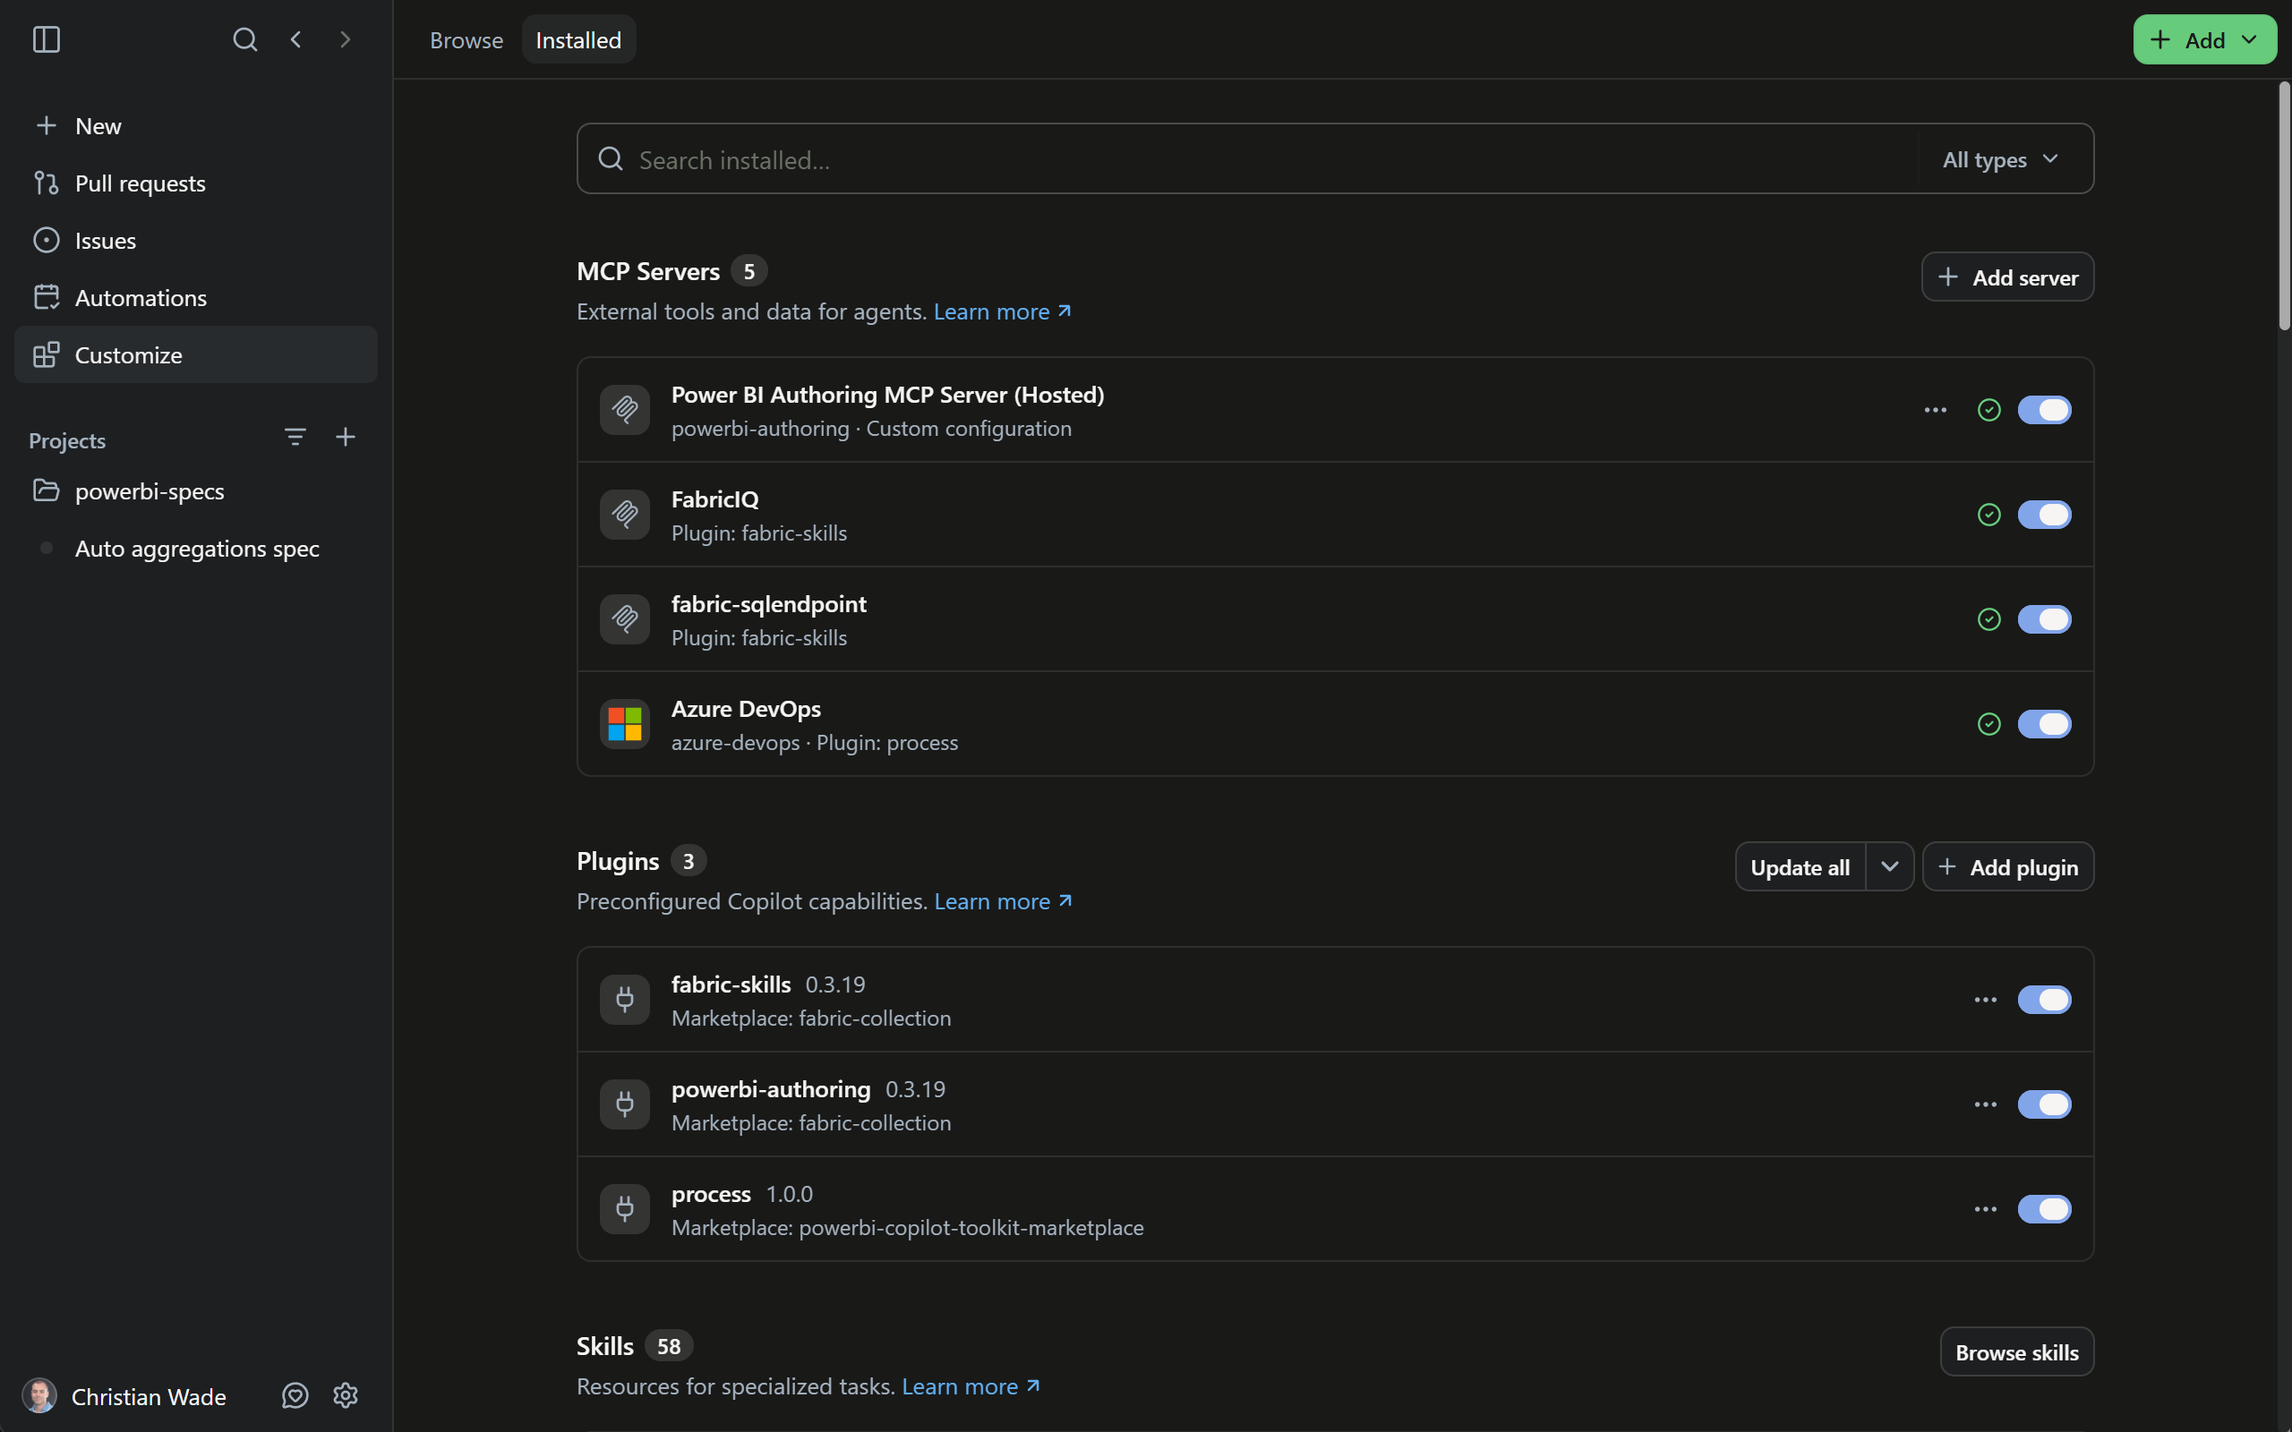
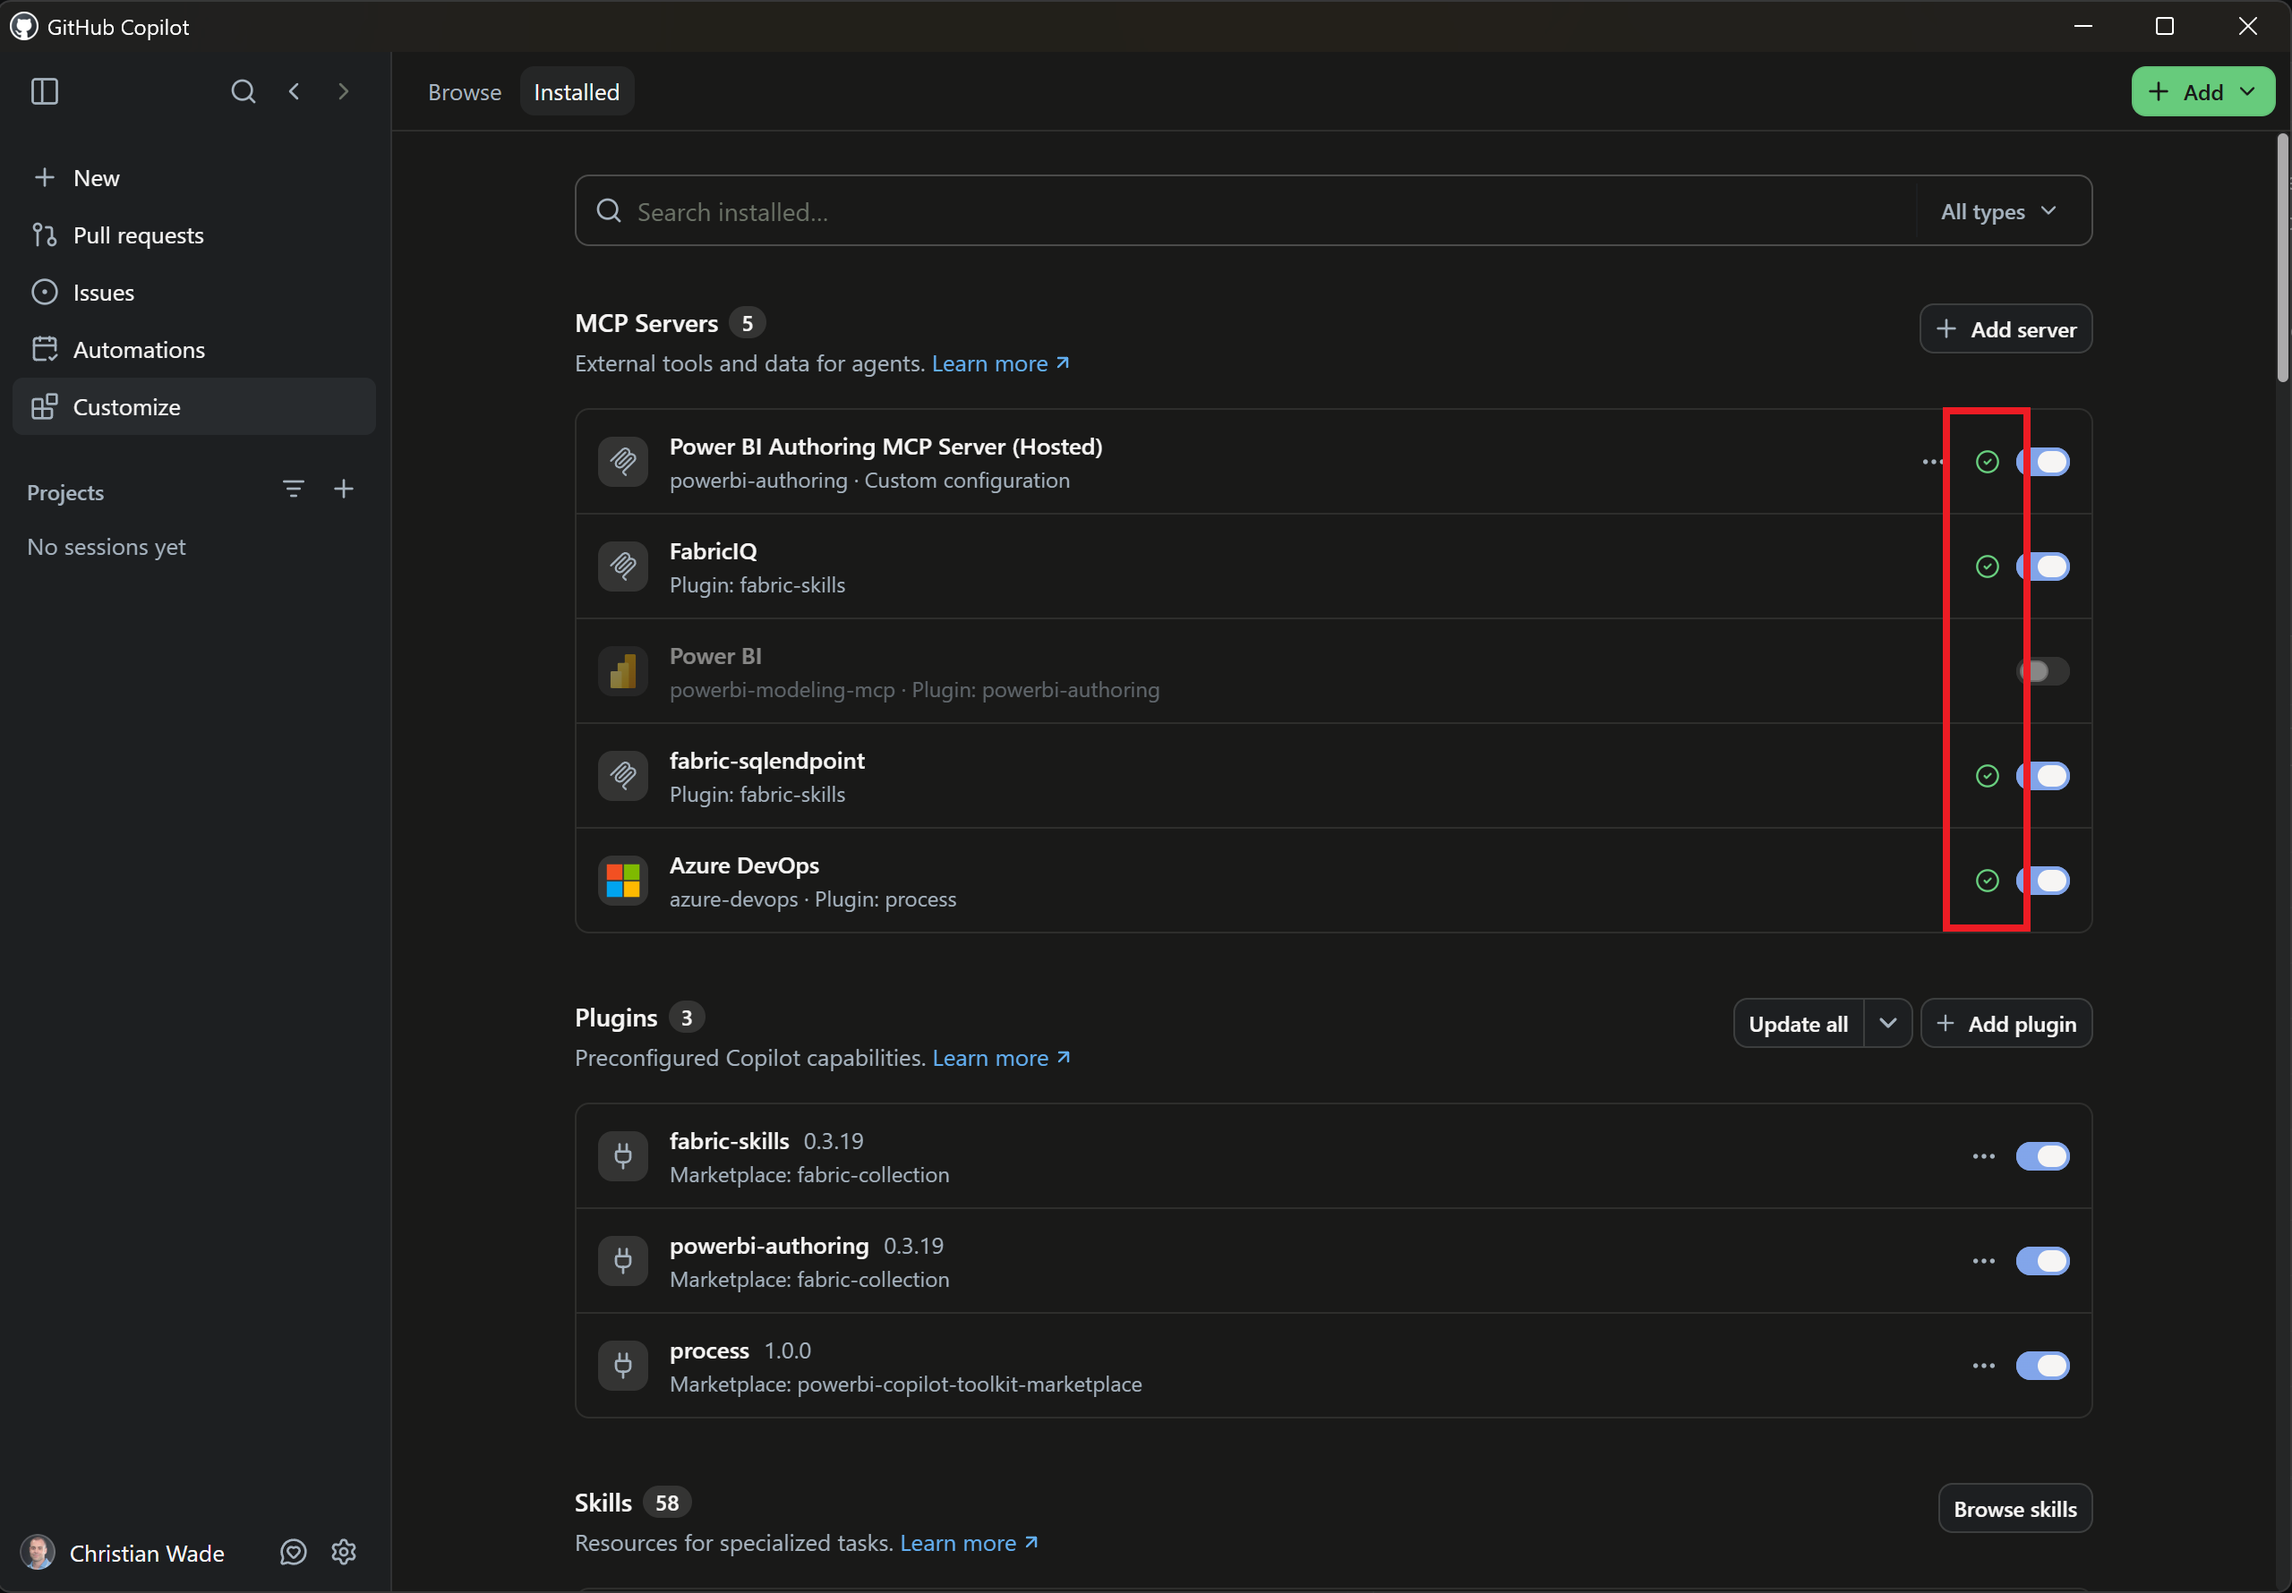
Revise Power BI study setup instructions

diff --git a/study-instructions-ai.md b/study-instructions-ai.md
@@ -1,19 +1,63 @@
 # Create Semantic Model with AI
 
-Thank you for taking part in this study. This will help guide future investment of Power BI and Fabric.
+### Sign into Fabric
 
-You will create two semantic models based on the same set of requirements. One will be created manually and the other using AI.
+Go to [Power BI](https://app.powerbi.com) and sign in with the Entra ID account provided for the study. It will follow the following format.
 
-## Sign into Fabric
+`powerbitestuser<USER_NUMBER>@msftpowerbistudy.onmicrosoft.com`
+
+Examples:
+
+- `powerbitestuser1@msftpowerbistudy.onmicrosoft.com`
+- `powerbitestuser25@msftpowerbistudy.onmicrosoft.com`
+
+Replace `USER_NUMBER` to match the login provided in your study invitation.
+
+### Fabric workspace
 
 Go to [Power BI](https://app.powerbi.com) and sign in with the Entra ID account provided for the study. It will follow the format powerbitestuserX@msftpowerbistudy.onmicrosoft.com.
 
 Create your models in the workspace already created for you following powerbitestuserX naming.
 
    ![Study workspace](resources/img/study-workspace.png)
-   
-## Create semantic model using AI
 
+### GitHub Copilot App and Paid Copilot License
+
+1. Open the **GitHub Copilot App**
+2. Sign-in with your GitHub account that should have an associated paid Copilot license as set up in [Prerequisites](pre-requisites.md)
+   
+	![gh-app-sign-in](resources/img/gh-app-sign-in.png)
+
+	Select the account in the bottom left and click Manage accounts.
+
+	![gh-app-signed-in](resources/img/gh-app-signed-in.png)
+
+3. Check you are not using a free Copilot license. The free Copilot license will not work for this study.
+
+	![copilot-license](resources/img/copilot-license.png)
+
+### MCP Servers and Plugins
+
+Check the following MCP servers and plugins are installed by selecting **Customize** > **Installed**.
+
+> [!NOTE]
+> The MCP servers must be successfully connected to carry out the study. This is shown by the green checkmarks.
+
+> [!NOTE]
+> The [Power BI Modeling MCP](https://github.com/microsoft/powerbi-modeling-mcp) is a local MCP server and it must be ***uninstalled or disabled*** to carry out the study. You will get Power BI agentic modeling capabilitis from the Power BI Authoring MCP Server (Hosted) MCP server instead.
+
+The MCP servers should have a green checkmark to show they are connected using your GitHub Copilot account.
+   - Power BI Authoring MCP Server (Hosted)
+   - FabricIQ
+   - fabric-sqlendpoint
+   - fabric-skills
+   - powerbi-authoring
+
+![gh-app-plugin-installed](resources/img/plugins-mcp.png)
+
+### Create semantic model using AI
+
+<!--
 Take the following prompt text and replace the login and workspace names with the ones provided to you for this study. In GitHub Copilot App, start by entering the text so start a Copilot session. This is a safeguard to avoid cached credentials to other tenants,  associated previous Copilot usage patterns and/or other previously installed MCP servers or plugins.
 
 ```text
@@ -22,9 +66,14 @@ During this session, authenticate only using powerbitestuser1@msftpowerbistudy.o
 - FabricIQ
 - fabric-sqlendpoint
 ```
+-->
+
+Click New to start a new Copilot chat session.
+
+![gh-app-plugin-installed](resources/img/new-copilot-chat.png)
 
 Using the same Copilot session, create a semantic model called **ZavaSemanticModel-AI** based on the the [Semantic Model Requirements](semantic-model-and-query-requirements.md#semantic-model-requirements).
 
-Once the model is created, create and execute queries based on the [Query Requirements](semantic-model-and-query-requirements.md#query-requirements). Place queries and results (copy/paste tables or screenshots) into a Word document with name as follows to be returned to your Microsoft study contact. Remember to replace the login name with yours.
+Once the model is created, create and execute queries based on the [Query Requirements](semantic-model-and-query-requirements.md#query-requirements). Place queries and results (copy/paste tables or screenshots) into a Word document with name as follows to be returned to your Microsoft study contact. Remember to replace `USER_NUMBER` to match the login provided in your study invitation.
 
-`powerbitestuserX_QueryResults_AI.docx`
+`AI_QueryResults_powerbitestuser<USER_NUMBER>.docx`

diff --git a/README.md b/README.md
@@ -1,39 +1,19 @@
-# Power BI Meets Agentic AI: A Hands-On Workshop from Setup to Impact
+# Power BI Study on Creation of Semantic Models with AI
 
-AI-powered agents are reshaping how we build Power BI solutions – and this workshop puts you in the driver’s seat. Whether you’re curious about agentic development or ready to integrate it into your workflow, this full-day, hands-on workshop will take you from foundational concepts to building semantic models and reports with GitHub Copilot and MCP servers in Microsoft Fabric.
+Thank you for taking part in this study. This will help guide future investment of Power BI and Fabric.
 
-You’ll start by understanding what agentic development really is: how it works and where it delivers real value through practical, real-world use cases. From there, you’ll set up your own environment and progressively work through guided exercises that cover the full Power BI development lifecycle – from semantic model design to report creation – while also learning where these approaches shine and where traditional methods still matter.
-
-Walk away ready to apply agentic development to your Power BI projects with confidence – knowing both its strengths and its boundaries.
+You will create two semantic models based on the same set of requirements. One will be created manually and the other using AI.
 
 ## Get started
 
-- Download or clone the entire repository to your machine, for example under `C:\FabCon\repo`. 
-  
-    ![clone-repository](resources/img/clone-repository.png)
-  
-    Unzip the folder to a location of your choice. Your cloned/download folder should like like this:
+### [1. Study Prerequisites](pre-requisites.md)
 
-    ![clone-repository](resources/img/cloned-repo.png)
+Review and successfully complete the [study prerequisites](pre-requisites.md) before creating semantic models. This includes setting up GitHub Copilot App, GitHub CLI, Fabric Skills and your GitHub Copilot licensed account.
 
-    Keep the folder structure intact so you can find every file referenced in the lab exercises and resource links.
+### [2. Create Semantic Model Manually](study-instructions-manual.md)
 
-- Review and complete the [workshop prerequisites](pre-requisites.md) before starting the labs.
-  
-- From the GitHub repository page, open each lab using the [links below](#labs). GitHub renders the instructions and images in a browser-friendly format with friendly navigation panel.
+Log into Fabric with the assigned account. Create a semantic model manually in Power BI based on the business reqiurements provided. Query the data and store the outputs to send to your Microsoft represntative.
 
-    ![gh-markdown-outline](resources/img/gh-markdown-outline.png)
+### [3. Create Semantic Model with AI](study-instructions-ai.md)
 
-## Labs
-
-### [Lab 1 - Agentic Power BI on the Web](lab1/lab.md)
-
-This lab introduces Power BI's built-in agentic authoring experiences. Using **Web Modeling Copilot** and the **Modeling Agent**, you will update semantic models, create measures, generate descriptions, batch-edit metadata, and prepare models for AI — all directly in the browser with no installation required.
-
-### [Lab 2 - Personalized Power BI Agents](lab2/lab.md)
-
-This lab shows how to extend and personalize **agentic Power BI development**. You will use skills, MCP capabilities, PBIP, and code-first tooling to customize agent behavior, encode team standards, and apply your own modeling best practices across semantic models and reports.
-
-### [Lab 3 - Build Data Apps with Fabric](lab3/lab.md)
-
-This lab takes agentic development beyond model authoring and into application creation. Starting from an existing semantic model, you will use **Fabric Data Apps** and natural-language prompts to generate, customize, and refine highly personalized analytical applications—including experiences inspired by screenshots and design concepts.
+Log into Fabric with the assigned account. Create a semantic model using GitHub Copilot and Fabric Skills based on the business reqiurements provided. Again, query the data and store the outputs to send to your Microsoft represntative.

diff --git a/study-instructions-manual.md b/study-instructions-manual.md
@@ -1,18 +1,25 @@
 # Create Semantic Model Manually
 
-Thank you for taking part in this study. This will help guide future investment of Power BI and Fabric.
+### Sign into Fabric
 
-You will create two semantic models based on the same set of requirements. One will be created manually and the other using AI.
+Go to [Power BI](https://app.powerbi.com) and sign in with the Entra ID account provided for the study. It will follow the following format.
 
-## Sign into Fabric
+`powerbitestuser<USER_NUMBER>@msftpowerbistudy.onmicrosoft.com`
 
-Go to [Power BI](https://app.powerbi.com) and sign in with the Entra ID account provided for the study. It will follow the format powerbitestuserX@msftpowerbistudy.onmicrosoft.com.
+Examples:
 
-Create your models in the workspace already created for you following powerbitestuserX naming.
+- `powerbitestuser1@msftpowerbistudy.onmicrosoft.com`
+- `powerbitestuser25@msftpowerbistudy.onmicrosoft.com`
+
+Replace `USER_NUMBER` to match the login provided in your study invitation.
+
+### Fabric workspace
+
+Create your models in the workspace already created for you with the name matching your login name.
 
    ![Study workspace](resources/img/study-workspace.png)
    
-## Create semantic model manually
+### Create semantic model manually
 
 Create a semantic model called **ZavaSemanticModel-Manual** in the powerbitestuserX workspace and get as far as time allows based on the [Semantic Model Requirements](semantic-model-and-query-requirements.md#semantic-model-requirements). It's OK if you run out of time and don't get to meet all the requirements.
 
@@ -20,7 +27,7 @@ You may use the Power BI service (web modeling) or Power BI Desktop to manually 
 
 If needed, start a Fabric Trial to create the model in the service.
 
-Once the model is created, create and execute queries based on the [Query Requirements](semantic-model-and-query-requirements.md#query-requirements). Place queries and results (copy/paste tables or screenshots) into a Word document with name as follows to be returned to your Microsoft study contact. Remember to replace the login name with yours.
+Once the model is created, create and execute queries based on the [Query Requirements](semantic-model-and-query-requirements.md#query-requirements). Place queries and results (copy/paste tables or screenshots) into a Word document with name as follows to be returned to your Microsoft study contact. Remember to replace `USER_NUMBER` to match the login provided in your study invitation.
 
-`powerbitestuserX_QueryResults_Manual.docx`
+`MANUAL_QueryResults_powerbitestuser<USER_NUMBER>.docx`
 

diff --git a/pre-requisites.md b/pre-requisites.md
@@ -54,6 +54,9 @@ You must complete these prerequisites successfully before proceeding to study pa
 
 We will provide a GitHub Copilot license for the study. You can use your own license if you prefer.
 
+> [!NOTE]
+> The free GitHub Copilot license is not sufficient to run this study. In order to select the required models, you must use a paid Copilot license or provision one temporarily using the steps below.
+
 > [!WARNING]
 > Joining a study organization can affect an existing GitHub Copilot license on your account.
 >
@@ -106,24 +109,4 @@ To request a GitHub Copilot license for the study:
 > [!NOTE]
 > You might need to sign out, sign in again, and restart Visual Studio Code before the AI credits take effect.
 -->
-
-### Ensure GitHub Copilot App is ready
-
-1. Open the **GitHub Copilot App**
-2. Sign-in with your GitHub account
-   
-	![gh-app-sign-in](resources/img/gh-app-sign-in.png)
-
-	Make sure you are signed in with the GitHub account you plan to use at the workshop.
-
-	![gh-app-signed-in](resources/img/gh-app-signed-in.png)
-
-3. Check the following MCP servers and plugins are installed by selecting **Customize** > **Installed**. The MCP servers should have a green checkmark to show they are connected using your GitHub Copilot account.
-- Power BI Authoring MCP Server (Hosted)
-- FabricIQ
-- fabric-sqlendpoint
-- fabric-skills
-- powerbi-authoring
-
-	![gh-app-plugin-installed](resources/img/plugins-mcp.png)
 
